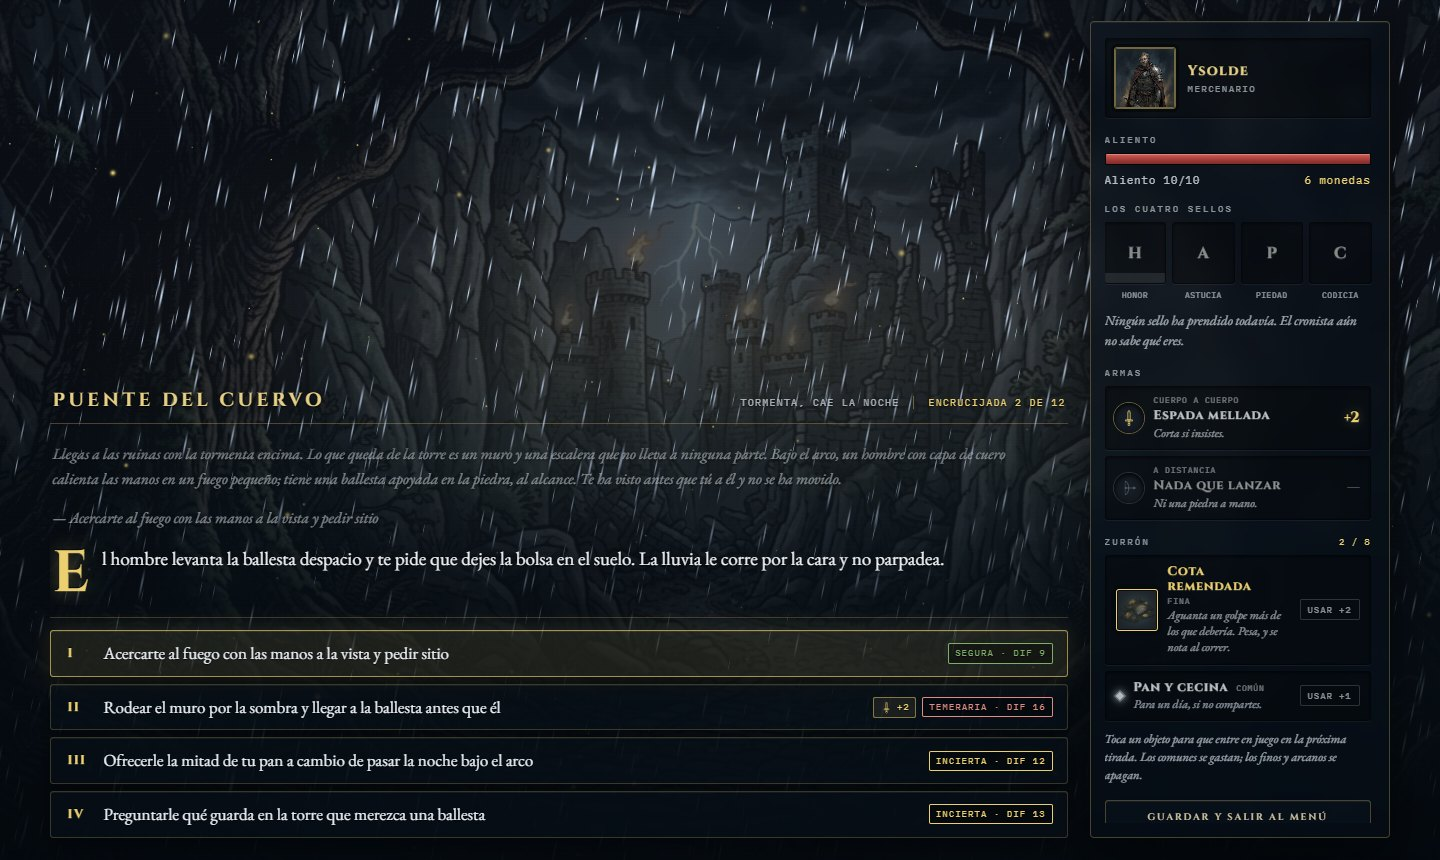
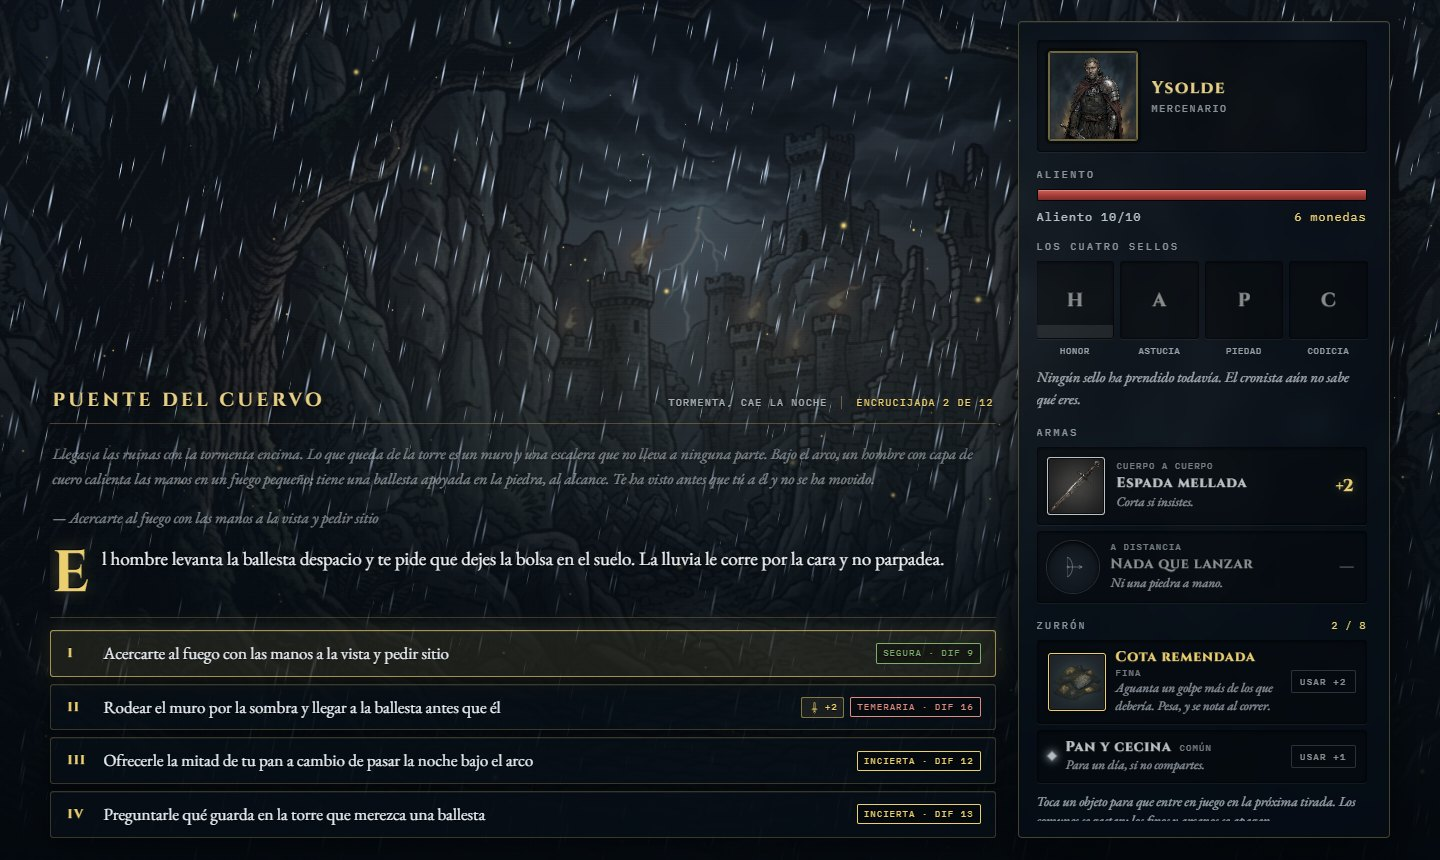
Ficha lateral más ancha y legible

diff --git a/src/pantallas/Juego.css b/src/pantallas/Juego.css
@@ -4,7 +4,7 @@
    ========================================================================= */
 
 .juego {
-  --lateral-ancho: 300px;
+  --lateral-ancho: 372px;
   --margen: 3.5vw;
   --hueco: 22px;
   position: relative;
@@ -237,7 +237,7 @@
   box-sizing: border-box; /* el relleno cuenta dentro del ancho */
   display: flex;
   flex-direction: column;
-  padding: 16px 14px 14px;
+  padding: 18px 18px 16px;
   border-radius: 4px;
   background: rgba(8, 16, 26, 0.5);
   backdrop-filter: blur(14px) saturate(1.1);
@@ -258,7 +258,7 @@
 }
 .lateral__etiqueta {
   font-family: var(--mono);
-  font-size: 9px;
+  font-size: 10px;
   letter-spacing: 0.24em;
   text-transform: uppercase;
   color: rgba(223, 233, 240, 0.6);
@@ -266,8 +266,8 @@
 }
 .lateral__etiqueta--fila { display: flex; justify-content: space-between; align-items: baseline; }
 .lateral__contador { color: var(--oro); letter-spacing: 0.1em; }
-.lateral__lectura { font-style: italic; font-size: 13.5px; line-height: 1.5; color: rgba(223, 233, 240, 0.72); margin-top: 10px; }
-.lateral__nota { font-style: italic; font-size: 12.5px; line-height: 1.45; color: rgba(223, 233, 240, 0.7); margin-top: 9px; }
+.lateral__lectura { font-style: italic; font-size: 14.5px; line-height: 1.5; color: rgba(223, 233, 240, 0.72); margin-top: 10px; }
+.lateral__nota { font-style: italic; font-size: 13.5px; line-height: 1.45; color: rgba(223, 233, 240, 0.7); margin-top: 9px; }
 
 /* Las placas, sobre cristal, van algo más ligeras */
 .lateral .placa {
@@ -276,10 +276,10 @@
   box-shadow: inset 0 1px 3px rgba(0, 0, 0, 0.5), 0 1px 0 rgba(255, 255, 255, 0.05);
 }
 
-.heroe { gap: 12px; padding: 8px 12px 8px 8px; }
+.heroe { gap: 14px; padding: 10px 14px 10px 10px; }
 .heroe__retrato {
-  width: 60px;
-  height: 60px;
+  width: 88px;
+  height: 88px;
   flex: 0 0 auto;
   position: relative;
   overflow: hidden;
@@ -293,7 +293,7 @@
 .heroe__nombre {
   font-family: var(--titulo);
   font-weight: 700;
-  font-size: 14px;
+  font-size: 17px;
   letter-spacing: 0.1em;
   color: #e6cf86;
   text-shadow: var(--cincel);
@@ -301,7 +301,7 @@
   text-overflow: ellipsis;
   white-space: nowrap;
 }
-.heroe__oficio { font-family: var(--mono); font-size: 9px; letter-spacing: 0.16em; text-transform: uppercase; color: rgba(223, 233, 240, 0.6); margin-top: 3px; }
+.heroe__oficio { font-family: var(--mono); font-size: 10px; letter-spacing: 0.16em; text-transform: uppercase; color: rgba(223, 233, 240, 0.6); margin-top: 3px; }
 
 .vida {
   height: 10px;
@@ -317,7 +317,7 @@
   box-shadow: inset 0 1px 0 rgba(255, 255, 255, 0.25), 0 0 10px rgba(181, 69, 63, 0.5);
   transition: width 0.5s;
 }
-.vida__texto { display: flex; justify-content: space-between; font-family: var(--mono); font-size: 10.5px; letter-spacing: 0.1em; margin-top: 8px; color: rgba(223, 233, 240, 0.8); }
+.vida__texto { display: flex; justify-content: space-between; font-family: var(--mono); font-size: 11.5px; letter-spacing: 0.1em; margin-top: 8px; color: rgba(223, 233, 240, 0.8); }
 
 .sellos { display: grid; grid-template-columns: repeat(4, 1fr); gap: 8px; }
 .sello { display: flex; flex-direction: column; align-items: center; gap: 6px; }
@@ -339,19 +339,19 @@
   justify-content: center;
   font-family: var(--titulo);
   font-weight: 700;
-  font-size: 16px;
+  font-size: 19px;
   color: rgba(223, 233, 240, 0.5);
   text-shadow: var(--cincel);
 }
 .sello__caja--on .sello__glifo { color: var(--oro); text-shadow: var(--cincel), 0 0 10px rgba(236, 208, 111, 0.6); }
-.sello__nombre { font-family: var(--mono); font-size: 7.5px; letter-spacing: 0.1em; text-transform: uppercase; color: rgba(223, 233, 240, 0.65); }
+.sello__nombre { font-family: var(--mono); font-size: 8.5px; letter-spacing: 0.1em; text-transform: uppercase; color: rgba(223, 233, 240, 0.65); }
 
 .armas { display: flex; flex-direction: column; gap: 6px; }
-.arma { gap: 10px; padding: 8px 10px 8px 8px; }
+.arma { gap: 12px; padding: 9px 12px 9px 9px; }
 .arma__icono {
   flex: 0 0 auto;
-  width: 30px;
-  height: 30px;
+  width: 52px;
+  height: 52px;
   display: grid;
   place-items: center;
   border-radius: 50%;
@@ -359,11 +359,11 @@
   box-shadow: 0 0 0 1px rgba(236, 208, 111, 0.4), inset 0 2px 4px rgba(0, 0, 0, 0.8);
   color: var(--oro);
 }
-.arma__icono svg { width: 18px; height: 18px; }
+.arma__icono svg { width: 26px; height: 26px; }
 .arma__imagen {
   flex: 0 0 auto;
-  width: 44px;
-  height: 44px;
+  width: 56px;
+  height: 56px;
   border-radius: 3px;
   background-size: cover;
   background-position: center;
@@ -372,19 +372,19 @@
 }
 .arma--sin .arma__icono { color: rgba(223, 233, 240, 0.35); box-shadow: 0 0 0 1px rgba(223, 233, 240, 0.15), inset 0 2px 4px rgba(0, 0, 0, 0.8); }
 .arma__cuerpo { flex: 1; min-width: 0; }
-.arma__tipo { display: block; font-family: var(--mono); font-size: 7.5px; letter-spacing: 0.16em; text-transform: uppercase; color: rgba(223, 233, 240, 0.5); }
-.arma__nombre { display: block; font-family: var(--titulo); font-weight: 700; font-size: 12.5px; letter-spacing: 0.06em; color: var(--marfil); text-shadow: var(--cincel); margin-top: 2px; }
+.arma__tipo { display: block; font-family: var(--mono); font-size: 8.5px; letter-spacing: 0.16em; text-transform: uppercase; color: rgba(223, 233, 240, 0.5); }
+.arma__nombre { display: block; font-family: var(--titulo); font-weight: 700; font-size: 14px; letter-spacing: 0.06em; color: var(--marfil); text-shadow: var(--cincel); margin-top: 2px; }
 .arma--sin .arma__nombre { color: rgba(223, 233, 240, 0.55); font-weight: 600; }
-.arma__nota { display: block; font-style: italic; font-size: 12px; line-height: 1.35; color: rgba(223, 233, 240, 0.62); margin-top: 1px; }
+.arma__nota { display: block; font-style: italic; font-size: 13px; line-height: 1.35; color: rgba(223, 233, 240, 0.62); margin-top: 1px; }
 .arma__bono {
   flex: 0 0 auto;
   align-self: center;
   font-family: var(--titulo);
   font-weight: 700;
-  font-size: 15px;
+  font-size: 17px;
   color: var(--oro);
   text-shadow: var(--cincel), 0 0 10px rgba(236, 208, 111, 0.4);
-  min-width: 28px;
+  min-width: 30px;
   text-align: right;
 }
 .arma__bono--nulo { color: rgba(223, 233, 240, 0.3); text-shadow: none; }
@@ -415,8 +415,8 @@
 }
 .objeto-z__imagen {
   flex: 0 0 auto;
-  width: 40px;
-  height: 40px;
+  width: 56px;
+  height: 56px;
   border-radius: 3px;
   background-size: cover;
   background-position: center;
@@ -428,7 +428,7 @@
 .objeto-z__nombre {
   font-family: var(--titulo);
   font-weight: 700;
-  font-size: 12.5px;
+  font-size: 14px;
   line-height: 1.2;
   letter-spacing: 0.06em;
   color: var(--marfil);
@@ -436,18 +436,18 @@
   min-width: 0;
   text-wrap: balance;
 }
-.objeto-z__rareza { flex: 0 0 auto; font-family: var(--mono); font-size: 7.5px; letter-spacing: 0.16em; text-transform: uppercase; color: rgba(223, 233, 240, 0.5); }
-.objeto-z__nota { display: block; font-style: italic; font-size: 12px; line-height: 1.35; color: rgba(223, 233, 240, 0.62); margin-top: 1px; }
+.objeto-z__rareza { flex: 0 0 auto; font-family: var(--mono); font-size: 8.5px; letter-spacing: 0.16em; text-transform: uppercase; color: rgba(223, 233, 240, 0.5); }
+.objeto-z__nota { display: block; font-style: italic; font-size: 13px; line-height: 1.35; color: rgba(223, 233, 240, 0.62); margin-top: 1px; }
 .objeto-z__estado {
   flex: 0 0 auto;
   font-family: var(--mono);
-  font-size: 8.5px;
+  font-size: 9px;
   letter-spacing: 0.14em;
   text-transform: uppercase;
   color: rgba(223, 233, 240, 0.6);
   border: 1px solid rgba(223, 233, 240, 0.18);
   border-radius: 2px;
-  padding: 4px 7px;
+  padding: 5px 8px;
   white-space: nowrap;
   transition: color 0.25s ease, border-color 0.25s ease, background 0.25s ease;
 }
@@ -464,13 +464,13 @@
 .objeto-z__boton:focus-visible { outline: none; }
 .objeto-z__boton:focus-visible .objeto-z__estado { box-shadow: 0 0 0 2px var(--oro); }
 
-.btn-salir { width: 100%; font-size: 9.5px; padding: 10px; }
+.btn-salir { width: 100%; font-size: 10.5px; padding: 12px; }
 
 @media (max-height: 800px) {
   .cronica { max-height: 74vh; }
   .cronica__prosa { font-size: 17.5px; line-height: 1.55; }
   .opcion { padding: 9px 12px 9px 14px; font-size: 16px; }
-  .juego { --lateral-ancho: 280px; }
+  .juego { --lateral-ancho: 340px; }
   .lateral { padding: 12px 12px 10px; }
   .lateral__scroll { gap: 12px; }
 }

diff --git a/LISTA_DE_TAREAS.md b/LISTA_DE_TAREAS.md
@@ -1,7 +1,6 @@
 # Lista de Tareas
 
 - Terminar de añadir todos los escenarios, quedan la prioridad 2 y prioridad 3.
-- Avatares mejores. Ahora mismo se usa low-poly y es cutre.
 - Añadir más clases. Ahora solo hay 4.
 - Añadir backend y base de datos en producción
-- Añadir nueva sección de personajes
+- Añadir objetos de armas
